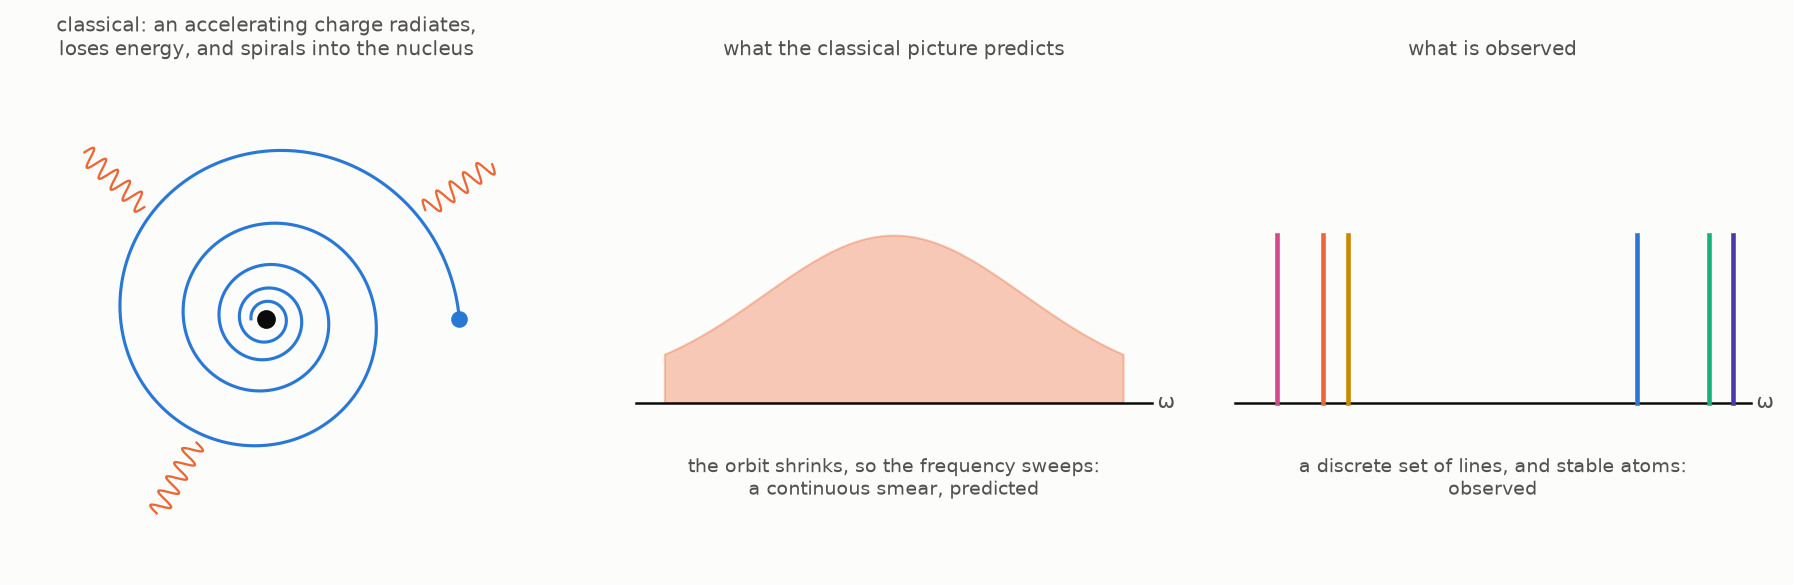
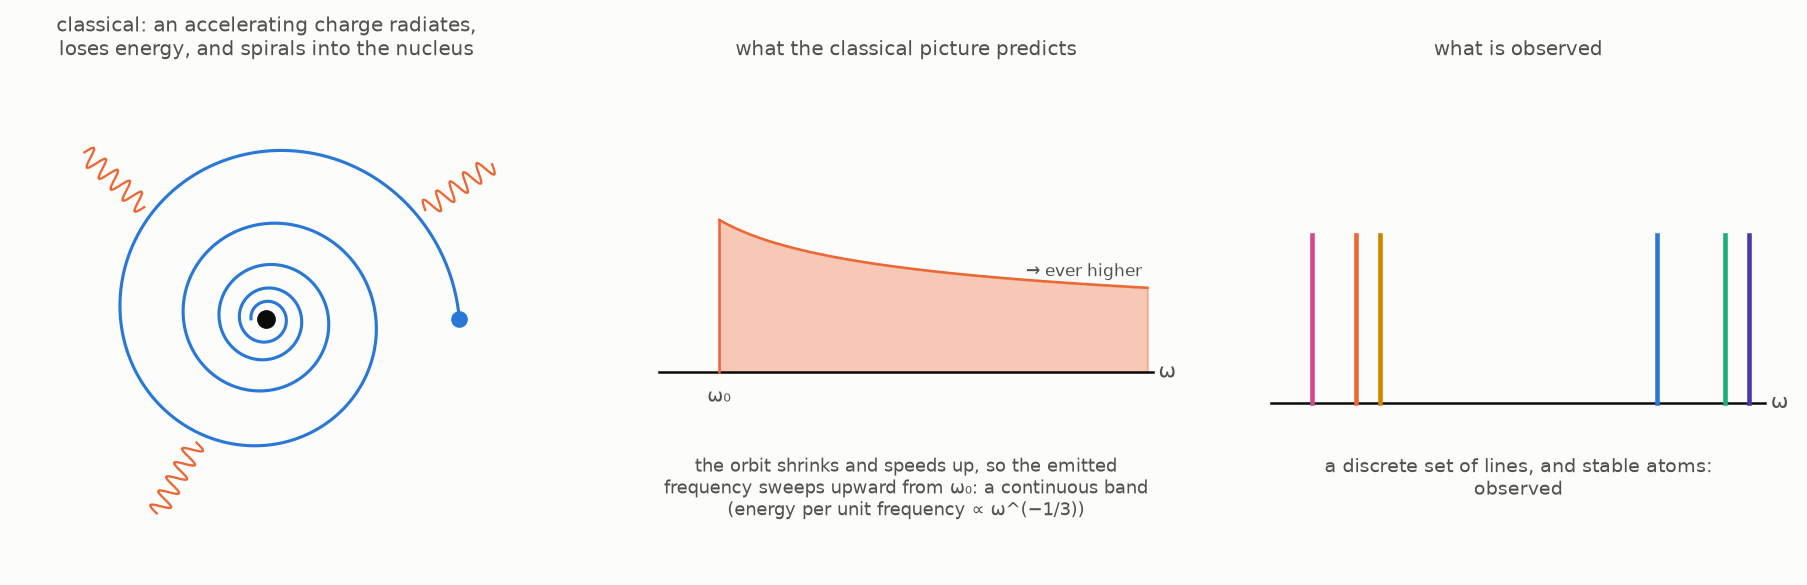
QM-3 draft: classical spectrum panel computed (energy per unit frequency ∝ ω^(-1/3) from ω₀ upward) instead of a placeholder hump

diff --git a/content/posts/observables-and-the-born-rule/index.md b/content/posts/observables-and-the-born-rule/index.md
@@ -117,7 +117,7 @@ video of the Quantum Sense series,
 [*Why we need quantum mechanics*](https://youtu.be/3nvbBEzfmE8),
 opens with this failure.)
 
-![A classical electron on an orbit radiates, loses energy and spirals into the nucleus; the classical picture predicts a continuous smear of emitted frequencies, while a discrete set of lines, and stable atoms, is what is observed](classical_collapse.png)
+![A classical electron on an orbit radiates, loses energy and spirals into the nucleus; the classical picture predicts a continuous band of emitted frequencies sweeping upward from the initial orbital frequency, while a discrete set of lines, and stable atoms, is what is observed](classical_collapse.png)
 
 Bohr's answer was to keep the classical picture and discretize it by
 decree. His theory still pictured the electron as a
